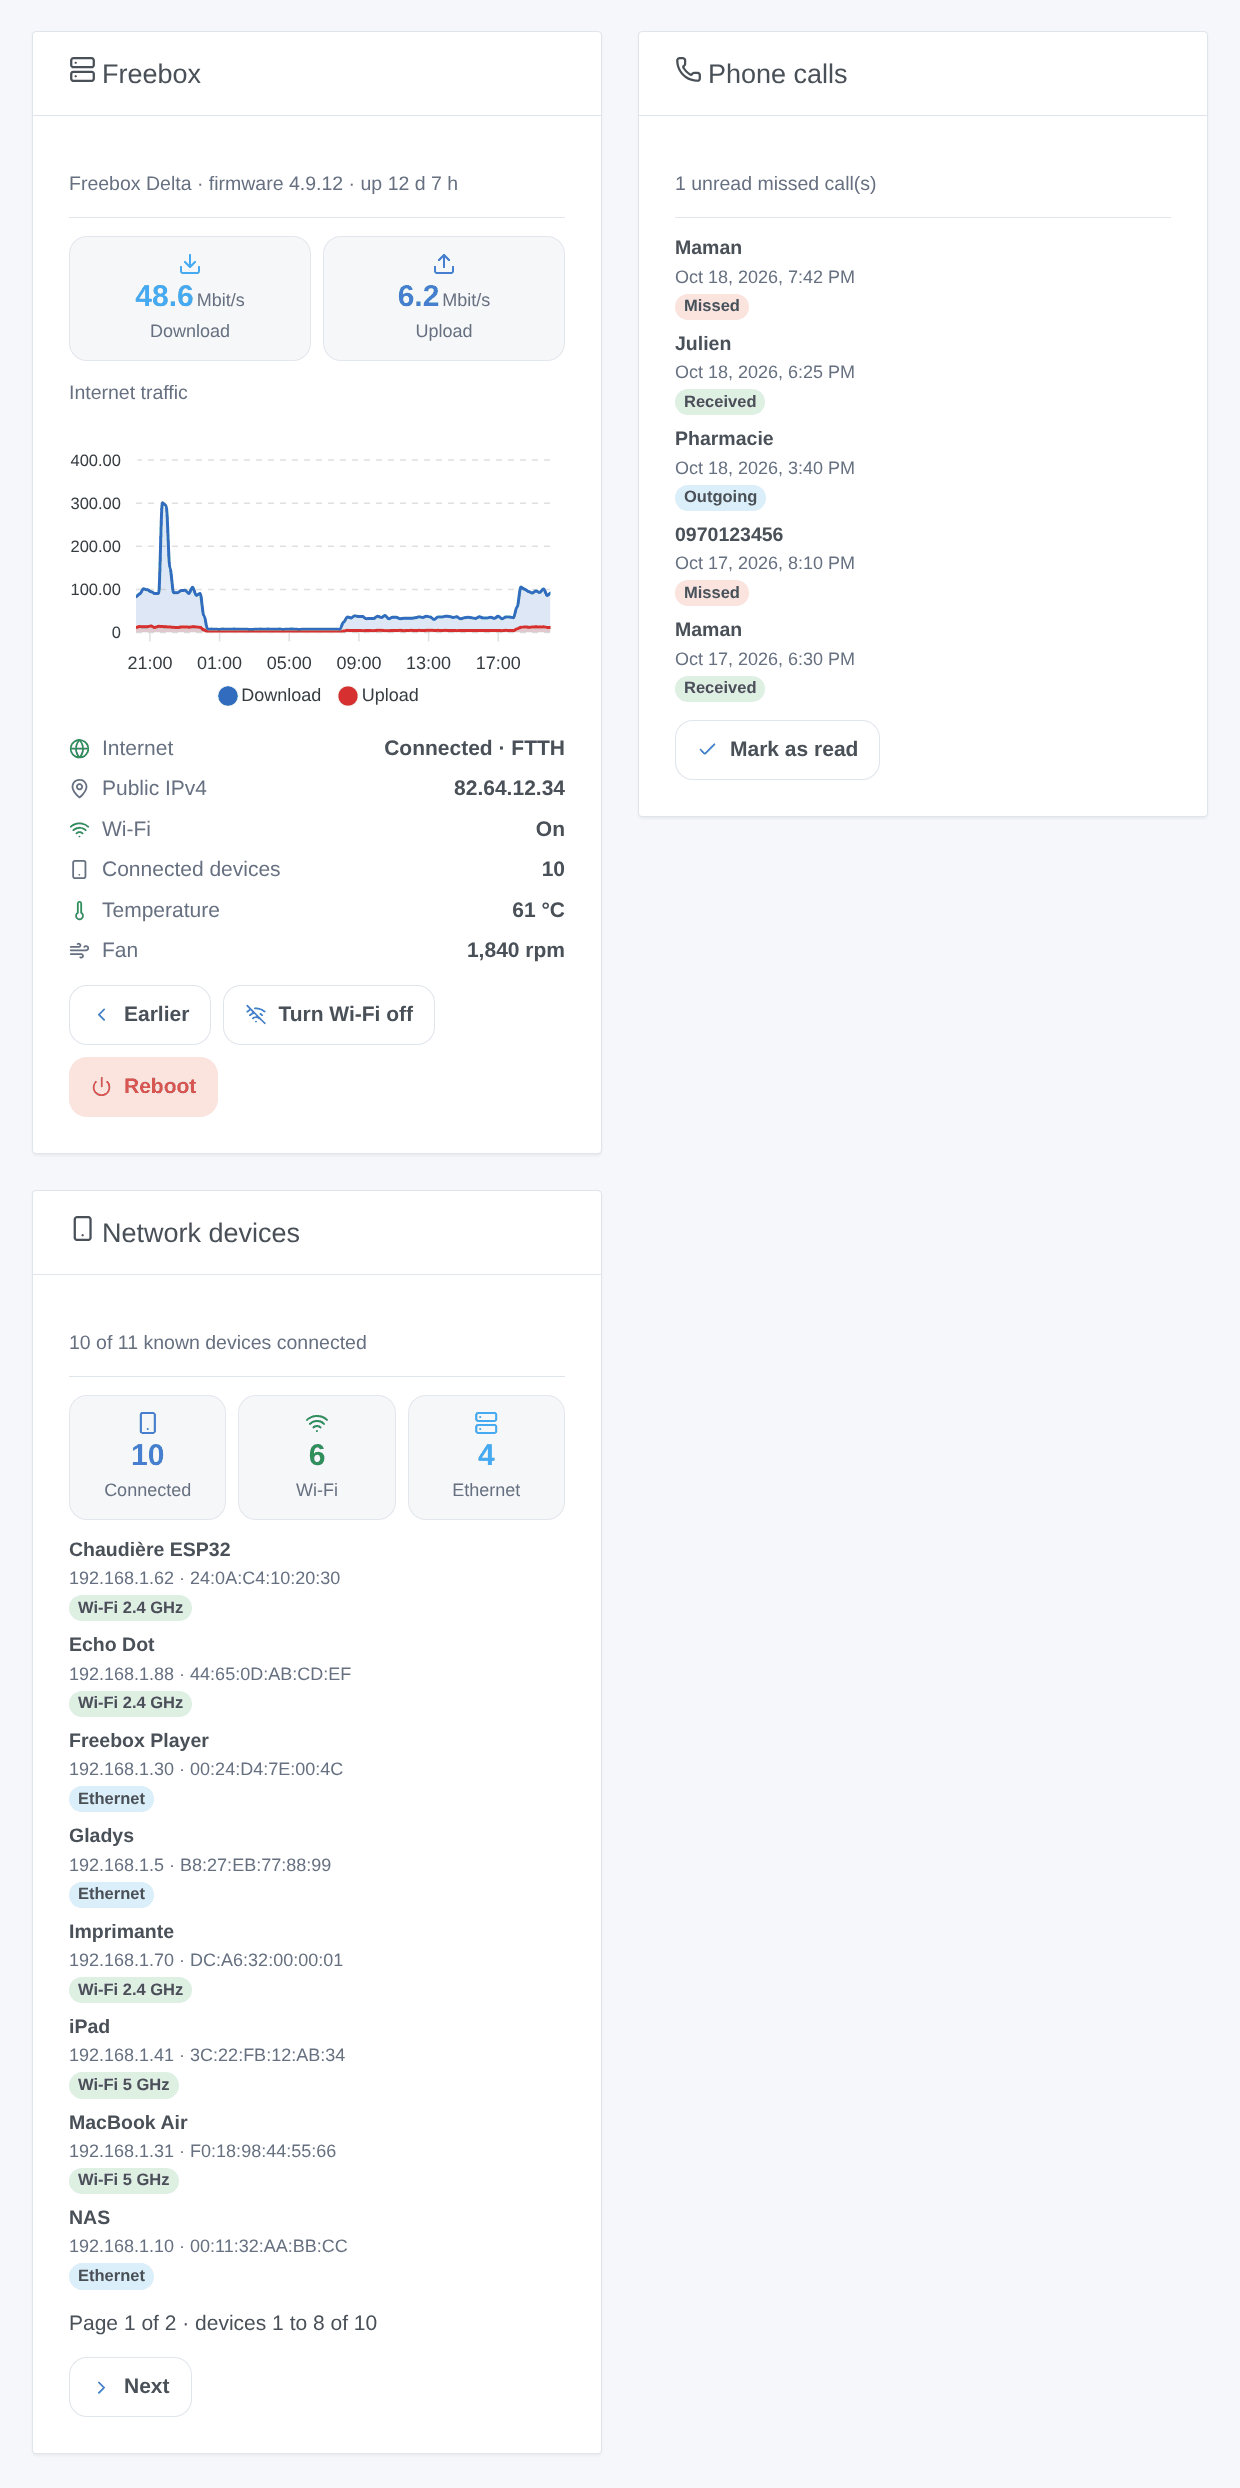
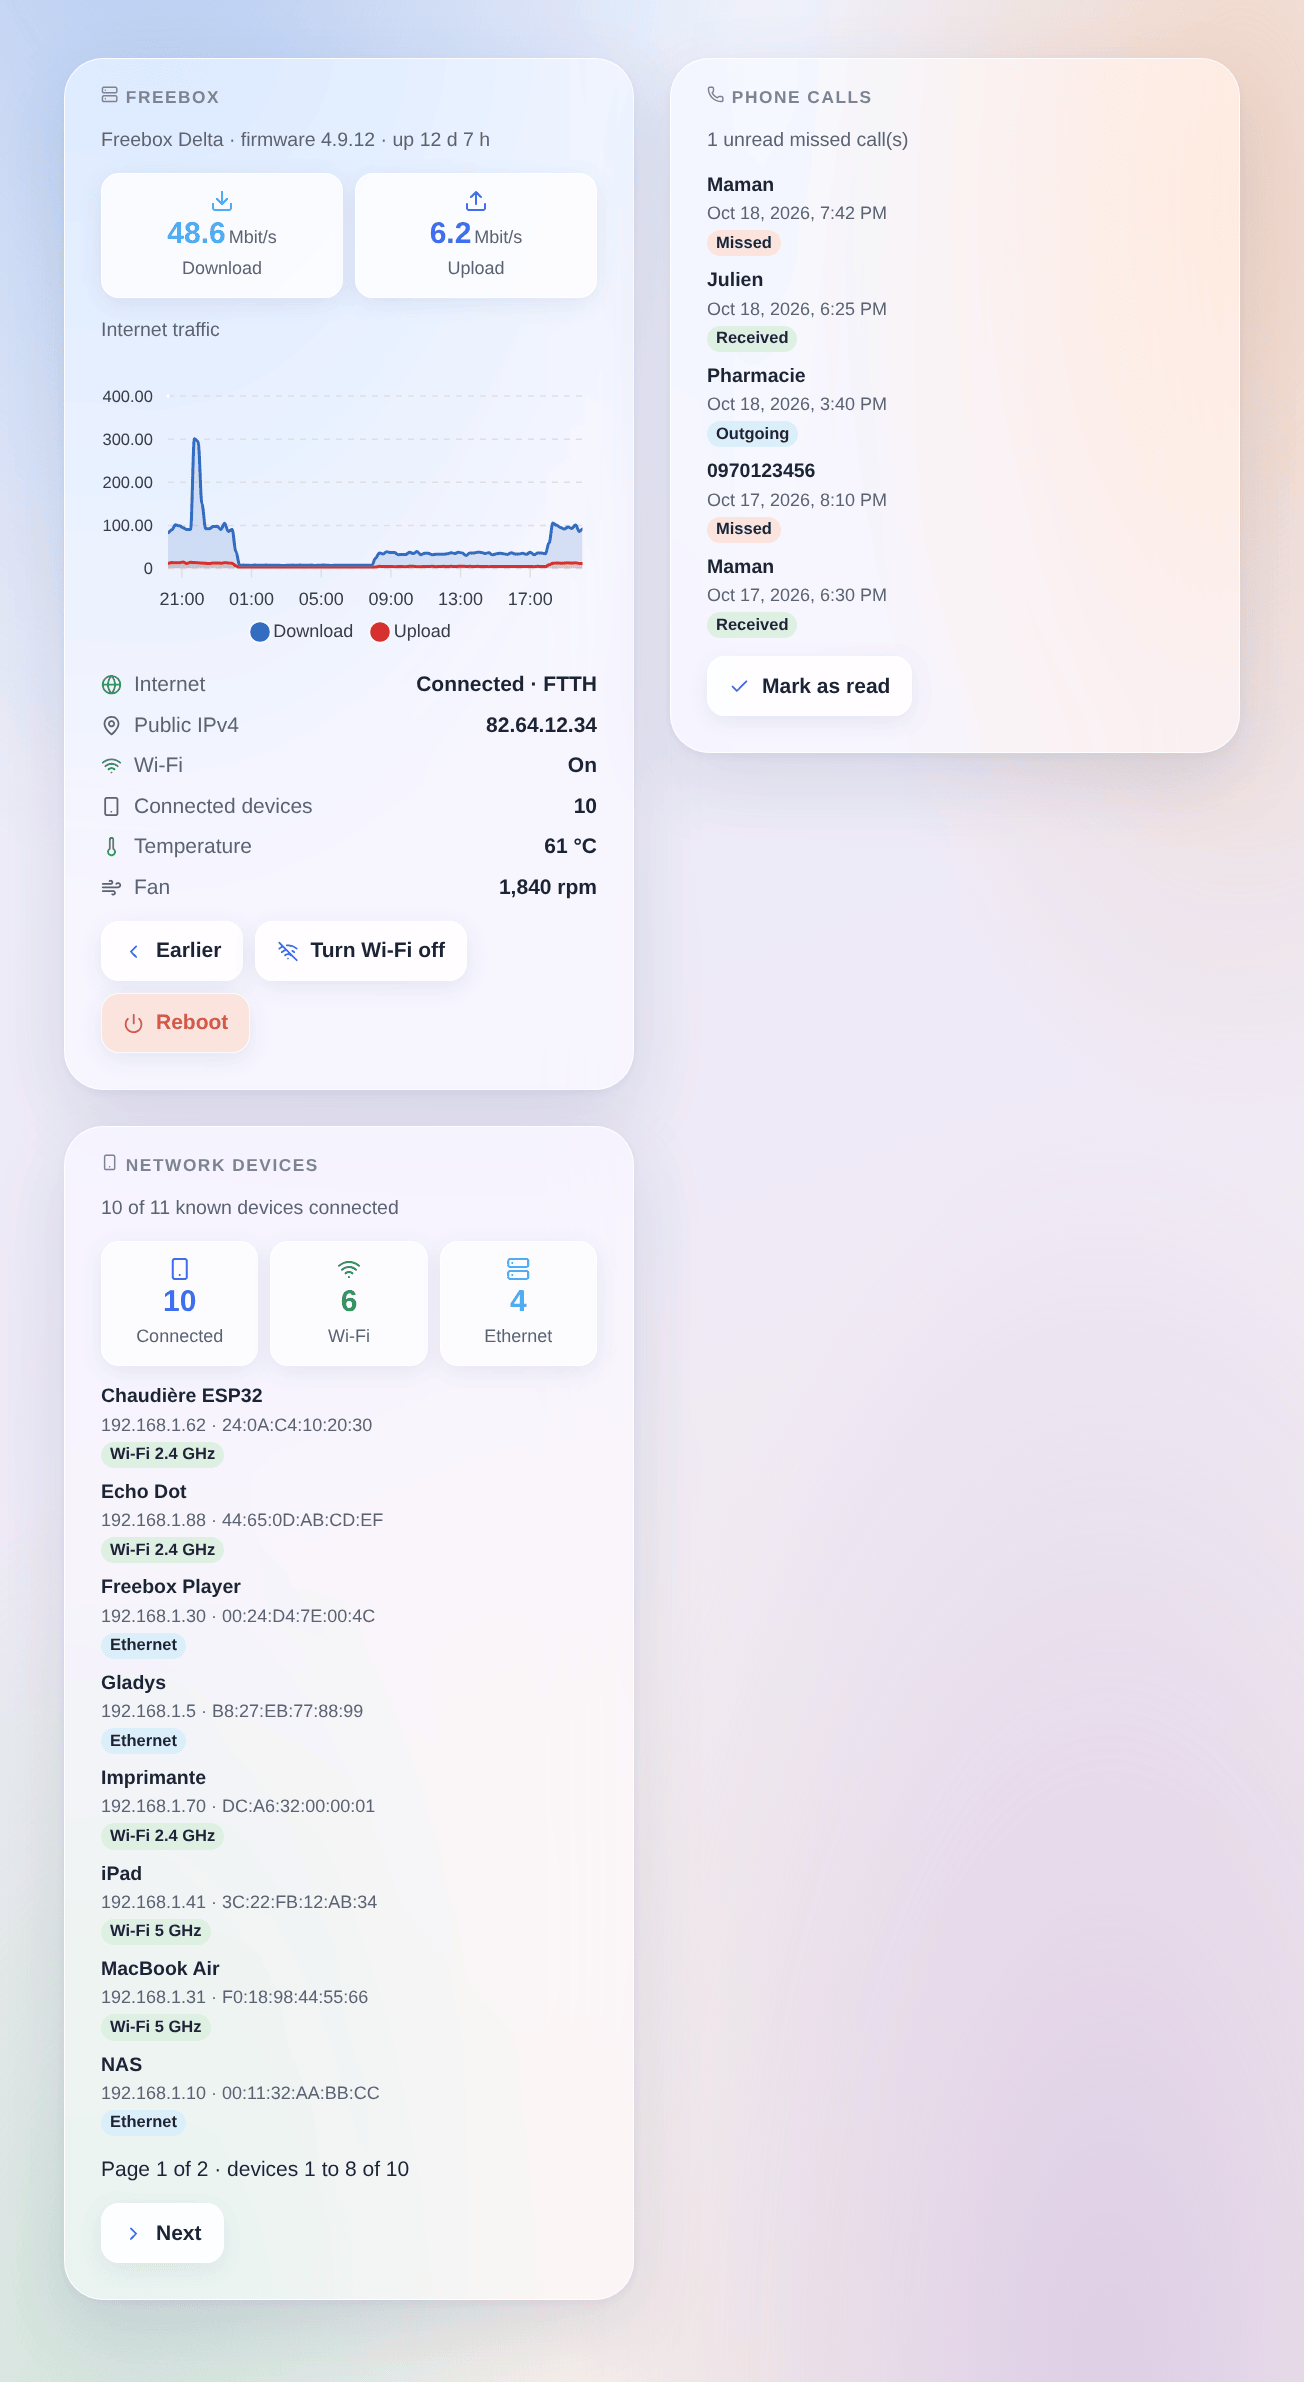
docs: widget illustrations in the Gladys 5 look (Horizon glass dashboard)
The illustrations used the Gladys v4 card look. render.sh now takes the styles of the current Gladys front, adds the Horizon dashboard theme (glass cards, uppercase title, default scene) and quantizes with libimagequant so the small colored dots survive the gradient.

Changed region(s): [[0.0, 0.0, 1.0, 1.0], [0.6129, 0.6835, 1.0, 1.0], [0.3677, 0.5592, 0.3984, 0.5903]]

diff --git a/docs/illustrations/index.html b/docs/illustrations/index.html
@@ -5,10 +5,25 @@
     <link rel="stylesheet" href="vendor/theme/package/dashboard.css" />
     <link rel="stylesheet" href="widget.css" />
     <link rel="stylesheet" href="dark-mode.css" />
+    <link rel="stylesheet" href="horizon.css" />
     <style>
       body {
-        background: #f5f7fb;
-        padding: 24px;
+        background: #fff;
+        margin: 0;
+        padding: 8px;
+      }
+      /* the page header of the theme shares the class name of the widget
+         header slot (a CSS module class in Gladys): keep it off the widget */
+      .card .header {
+        padding: 0;
+        background: none;
+        border-bottom: 0;
+      }
+      /* the dashboard scene, a margin around the cards for their shadow */
+      #stage {
+        display: inline-block;
+        overflow: hidden;
+        padding: 40px 44px 56px;
       }
       #row {
         display: flex;
@@ -31,7 +46,7 @@
     <script src="data.js"></script>
   </head>
   <body>
-    <div id="row"></div>
+    <div id="stage" class="glass-theme glassScene"><div id="row"></div></div>
     <script>
       if (new URLSearchParams(location.search).get('theme') === 'dark') {
         document.documentElement.classList.add('dark-mode');
